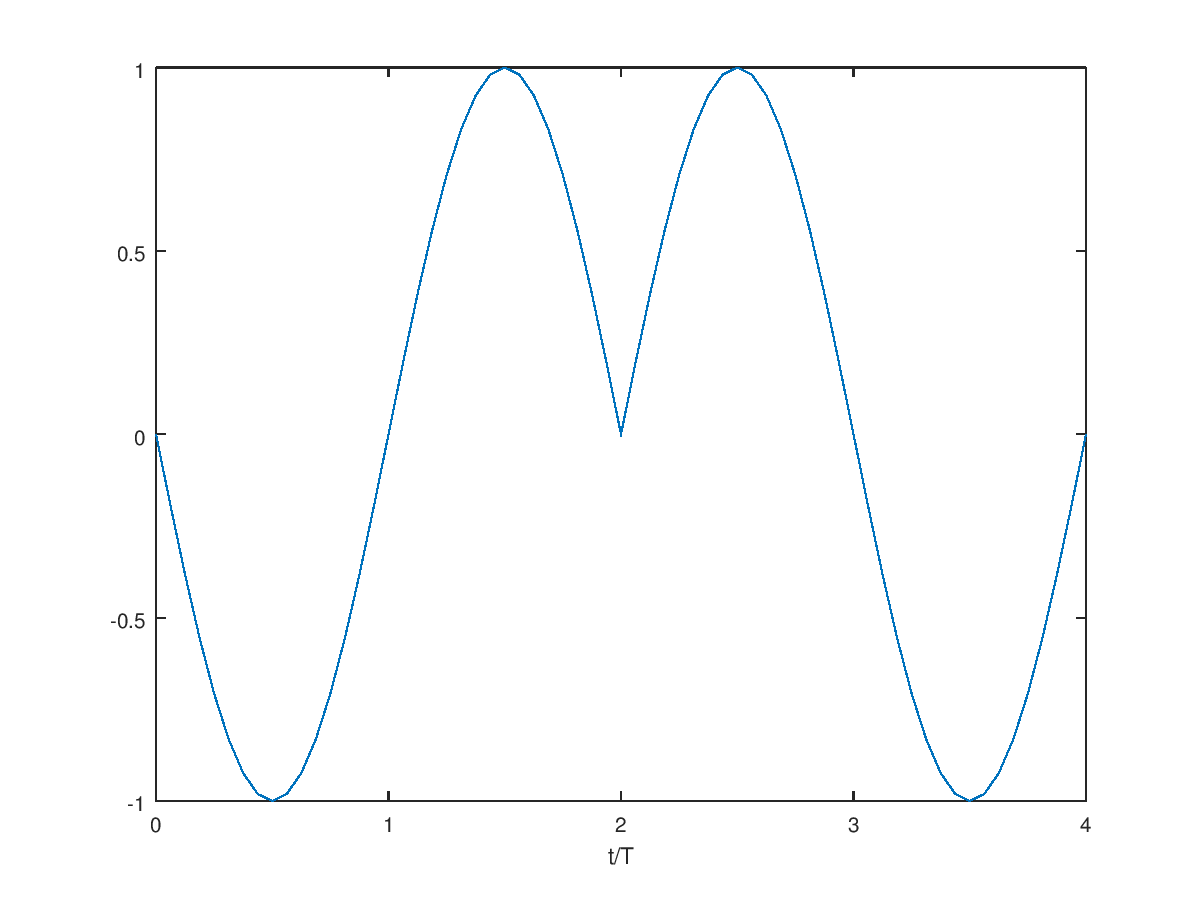
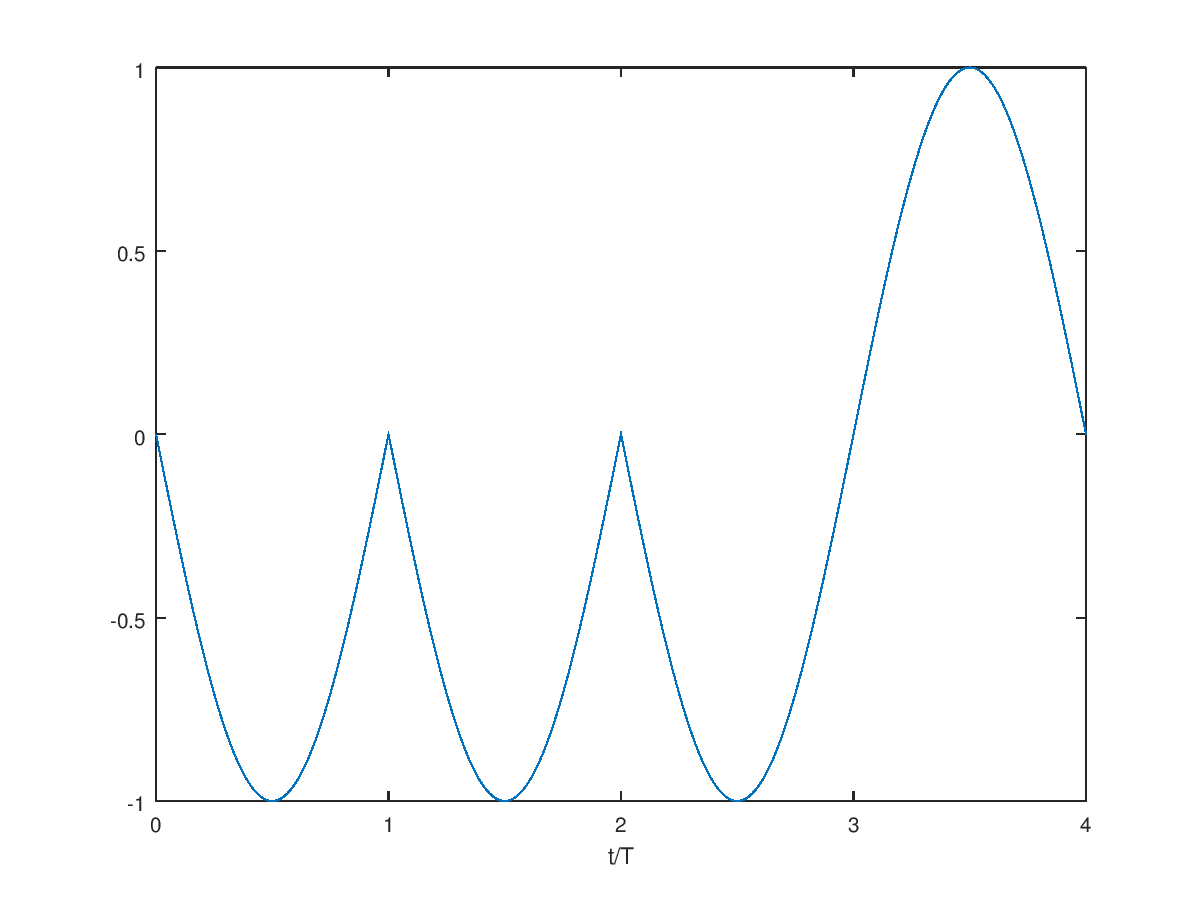
1 done

Changed region(s): [[0.4933, 0.4356, 0.5242, 0.5289], [0.4008, 0.8711, 0.4317, 0.9022]]

diff --git a/LAB 4/1/232.m b/LAB 4/1/232.m
@@ -1,20 +1,57 @@
-m=16; %sampling rate as multiple of symbol rate 
+ns = 4;
+
+randA = randomArray(ns)
+
+m=1000; %sampling rate as multiple of symbol rate 
+
+
 %discrete time representation of sine pulse
 time_p = 0:1/m:1; %sampling times over duration of pulse 
 p = sin(pi*time_p); %samples of the pulse
 %symbols to be modulated
-symbols = [-1;1;1;-1];
+% symbols = [-1;1;1;-1]
+
+symbols = randA;
 
 %UPSAMPLE BY m
 nsymbols = length(symbols);%length of original symbol sequence 
 nsymbols_upsampled = 1+(nsymbols-1)*m;%length of upsampled symbol sequence 
 symbols_upsampled = zeros(nsymbols_upsampled,1);% 
 symbols_upsampled(1:m:nsymbols_upsampled)=symbols;%insert symbols with spacing M 
-%GENERATE MODULATED SIGNAL BY DISCRETE TIME CONVOLUTION 
+%GENERATE MODULATED SIGNAL BY DISCRETE TIME CONVOLUTION
+
 u=conv(symbols_upsampled,p);
 %PLOT MODULATED SIGNAL
 time_u = 0:1/m:(length(u)-1)/m; %unit of time = symbol time T
+
+figure(1)
 plot(time_u,u);
 xlabel('t/T');
 
 print -dpng imag.png
+
+figure(2)
+[U, freq_U, df_acquired] = contFT(u, time_u(1), 1/m, 1);
+
+% Extracting one column from U
+% U is a matrix with the same column repeated
+U = U(:, 1)';
+
+plot(freq_U, U);
+xlabel('Freq');
+xlim([-50, 50]);
+print -dpng imag2.png
+
+% magnitude squared of the Fourier transform, divided by nsT, the length of the observation interval.
+magSquaredU = abs(U).^2.*(m/ns);
+freq_magSquaredU = freq_U;
+
+figure(3)
+plot(freq_magSquaredU, magSquaredU);
+xlim([-20, 20]);
+
+print -dpng imag3.png
+
+
+
+

diff --git a/LAB 4/1/randomArray.m b/LAB 4/1/randomArray.m
@@ -1,0 +1,11 @@
+function [array] = randomArray (arrayLength)
+  % creates Random Array from arrayLength
+  array = rand(arrayLength, 1);
+  for i = 1:length(array)
+    if (array(i) < 0.5)
+      array(i) = -1;
+    else
+      array(i) = 1;
+    end
+  end
+end

diff --git a/LAB 4/1/contFT.m b/LAB 4/1/contFT.m
@@ -1,4 +1,3 @@
-
 function [X,f,df] = contFT(x,tstart,dt,df_desired)
 %Use Matlab DFT for approximate computation of continuous time Fourier %transform
 %INPUTS
